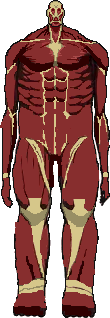
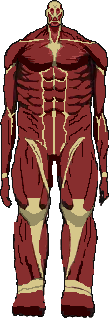
Колоссальный и Звероподобный по рисункам автора
- обновлён colossal.png, добавлен beast.png (фон убран), исходники Piskel в assets/titans/src
- свои спрайты больше не пережимаются: масштаб при отрисовке, пиксели остаются чёткими
- Звероподобный поднимает валун над головой перед броском; вспышка от попаданий мягче

Claude-Session: https://claude.ai/code/session_017tYzfzBDXtsjiACdZR5rUH

diff --git a/js/custom-sprites.js b/js/custom-sprites.js
@@ -28,21 +28,6 @@ window.AOT = window.AOT || {};
     }
   };
 
-  // масштабирование картинки под рост титана (в пикселях спрайта) с чёткими краями
-  function scaled(img, th) {
-    const k = th / img.height, tw = Math.max(1, Math.round(img.width * k));
-    const cv = document.createElement('canvas'); cv.width = tw; cv.height = th;
-    const c = cv.getContext('2d');
-    c.imageSmoothingEnabled = k < 1; c.imageSmoothingQuality = 'high';
-    c.drawImage(img, 0, 0, tw, th);
-    try { // убрать полупрозрачную кайму от сглаживания
-      const id = c.getImageData(0, 0, tw, th), d = id.data;
-      for (let i = 3; i < d.length; i += 4) d[i] = d[i] > 110 ? 255 : 0;
-      c.putImageData(id, 0, 0);
-    } catch (e) { /* локальный file:// — оставляем как есть */ }
-    return cv;
-  }
-
   // тёмный контур в 1 пиксель, как у остальных титанов — чтобы не терялся на траве
   function outline(cv) {
     const c = cv.getContext('2d');
@@ -58,14 +43,16 @@ window.AOT = window.AOT || {};
     } catch (e) { /* file:// */ }
   }
 
+  // Картинка не пережимается: кадр остаётся в родном разрешении рисунка, а под рост титана
+  // его масштабирует уже отрисовка (cv.s = пикселей рисунка на пиксель мира) — пиксели остаются чёткими.
   function buildFrame(type, H, f) {
-    const ct = A.customTitans[type], S = A.SPRITE_SCALE || 2;
-    const th = Math.round(H * S);
+    const ct = A.customTitans[type];
     const own = ct.frames[f];
-    const src = scaled(own || ct.base, th);
-    const tw = src.width, pad = Math.ceil(th * 0.05) + 2;
+    const src = own || ct.base;
+    const tw = src.width, th = src.height, pad = Math.ceil(th * 0.05) + 2;
     const cv = document.createElement('canvas'); cv.width = tw + pad * 2; cv.height = th + pad;
     const c = cv.getContext('2d');
+    c.imageSmoothingEnabled = false;
     if (own) c.drawImage(src, pad, pad);
     else {
       // автоанимация: ноги шагают по очереди, корпус покачивается; на замахе корпус подаётся вверх и вширь
@@ -75,15 +62,15 @@ window.AOT = window.AOT || {};
       c.drawImage(src, 0, legY, half, th - legY, pad, pad + legY - legL, half, th - legY);
       c.drawImage(src, half, legY, tw - half, th - legY, pad + half, pad + legY - legR, tw - half, th - legY);
       if (f === 2) {
-        const k = 1.05, up = lift * 2;
-        c.drawImage(src, 0, 0, tw, legY + 2, pad - tw * (k - 1) / 2, pad - up, tw * k, legY + 2 + up);
+        const up = lift * 2, ext = Math.max(1, Math.round(tw * 0.025));
+        c.drawImage(src, 0, 0, tw, legY + 1, pad - ext, pad - up, tw + ext * 2, legY + 1 + up);
       } else {
         const dx = f === 0 ? -sway : sway;
-        c.drawImage(src, 0, 0, tw, legY + 2, pad + dx, pad - Math.round(lift / 2), tw, legY + 2);
+        c.drawImage(src, 0, 0, tw, legY + 1, pad + dx, pad - Math.round(lift / 2), tw, legY + 1);
       }
     }
     outline(cv);
-    cv.s = S; cv.custom = true;
+    cv.s = th / H; cv.custom = true;
     return cv;
   }
 

diff --git a/js/render.js b/js/render.js
@@ -247,6 +247,11 @@ window.AOT = window.AOT || {};
     c.drawImage(img, x, y, dw, dh);
     if (t.dead) { c.globalAlpha = Math.max(0, 0.85 * (1 - t.deadT / 1.2)); c.drawImage(whiteOf(img), x, y, dw, dh); c.globalAlpha = 1; return; } // испаряется
     // тлеющие трещины Колоссального пульсируют, в пару — разгораются
+    // свой спрайт метателя: перед броском держит валун над головой
+    if (img.custom && t.def.thrower && t.grabT > 0) {
+      const r = Math.max(2.5, t.def.w * 0.28);
+      ell(c, t.x, y - r * 1.2, r, r * 0.85, '#8a857c'); ell(c, t.x - r * 0.3, y - r * 1.5, r * 0.4, r * 0.3, '#a8a296');
+    }
     // свой спрайт: в пару тело раскаляется
     if (img.custom && t.steamOn) {
       c.globalAlpha = 0.16 + Math.max(0, Math.sin(time * 4 + t.id)) * 0.14;
@@ -269,7 +274,7 @@ window.AOT = window.AOT || {};
       for (let i = 0; i < 4; i++) if (Math.sin(time * 5 + i * 1.7) > 0.7) c.fillRect(t.x + (A.hash(t.id, i, 5) - 0.5) * t.def.w, y + dh * A.hash(t.id, i, 6), 1, 1);
       c.globalAlpha = 1;
     }
-    if (t.hitFlash > 0) { c.globalAlpha = 0.7; c.drawImage(whiteOf(img), x, y, dw, dh); c.globalAlpha = 1; }
+    if (t.hitFlash > 0) { c.globalAlpha = img.custom ? 0.35 : 0.7; c.drawImage(whiteOf(img), x, y, dw, dh); c.globalAlpha = 1; }
     if (t.hardenT > 0 && t.crystalT <= 0) { c.globalAlpha = 0.55; c.fillStyle = '#bfe6ff'; c.fillRect(t.x - t.def.w * 0.2, y + dh * 0.14, t.def.w * 0.4, Math.max(1.5, dh * 0.08)); c.globalAlpha = 1; }
     // ярость
     if (t.enrageT > 0) { c.fillStyle = '#ff4a3a'; c.fillRect(t.x - t.def.w * 0.12, y + dh * 0.06, 1, 0.6); c.fillRect(t.x + t.def.w * 0.08, y + dh * 0.06, 1, 0.6); }

diff --git a/assets/titans/manifest.js b/assets/titans/manifest.js
@@ -5,4 +5,5 @@
 // Типы: colossal, armored, female, beast, jaw, normal, small, deviant, eren
 window.AOT_TITAN_SPRITES = {
   colossal: { base: 'colossal.png', legsFrom: 0.5 },
+  beast: { base: 'beast.png', legsFrom: 0.69 },
 };
